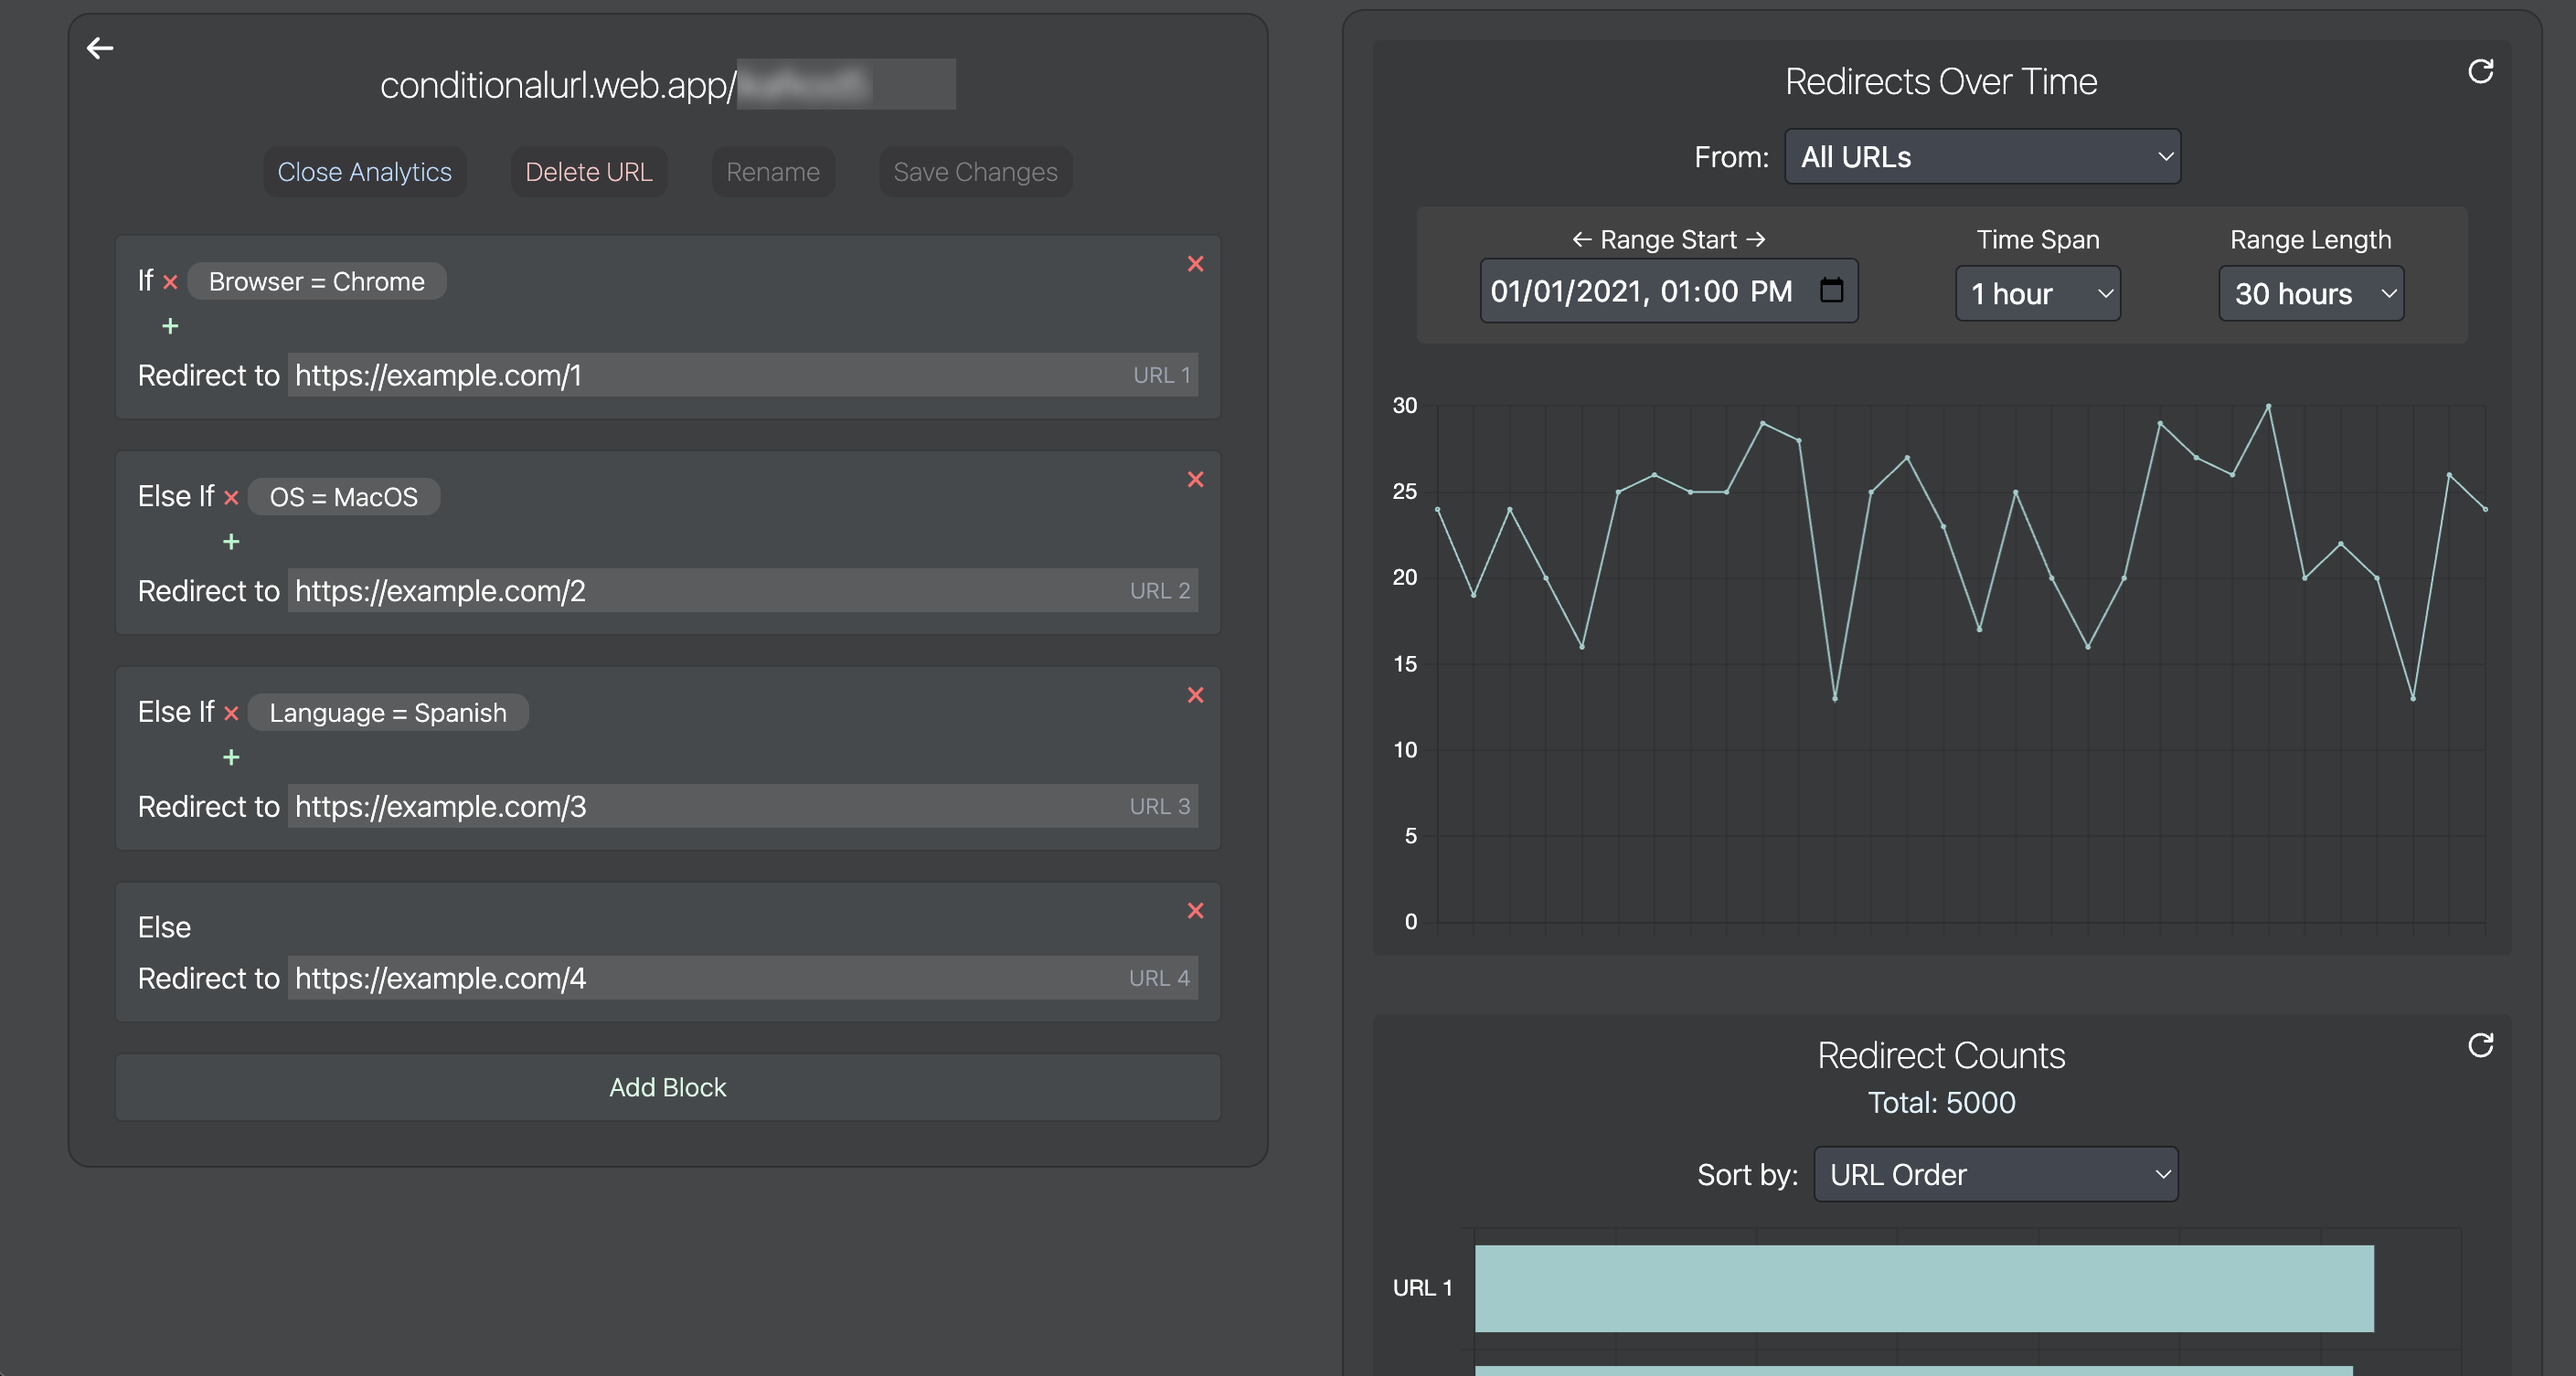
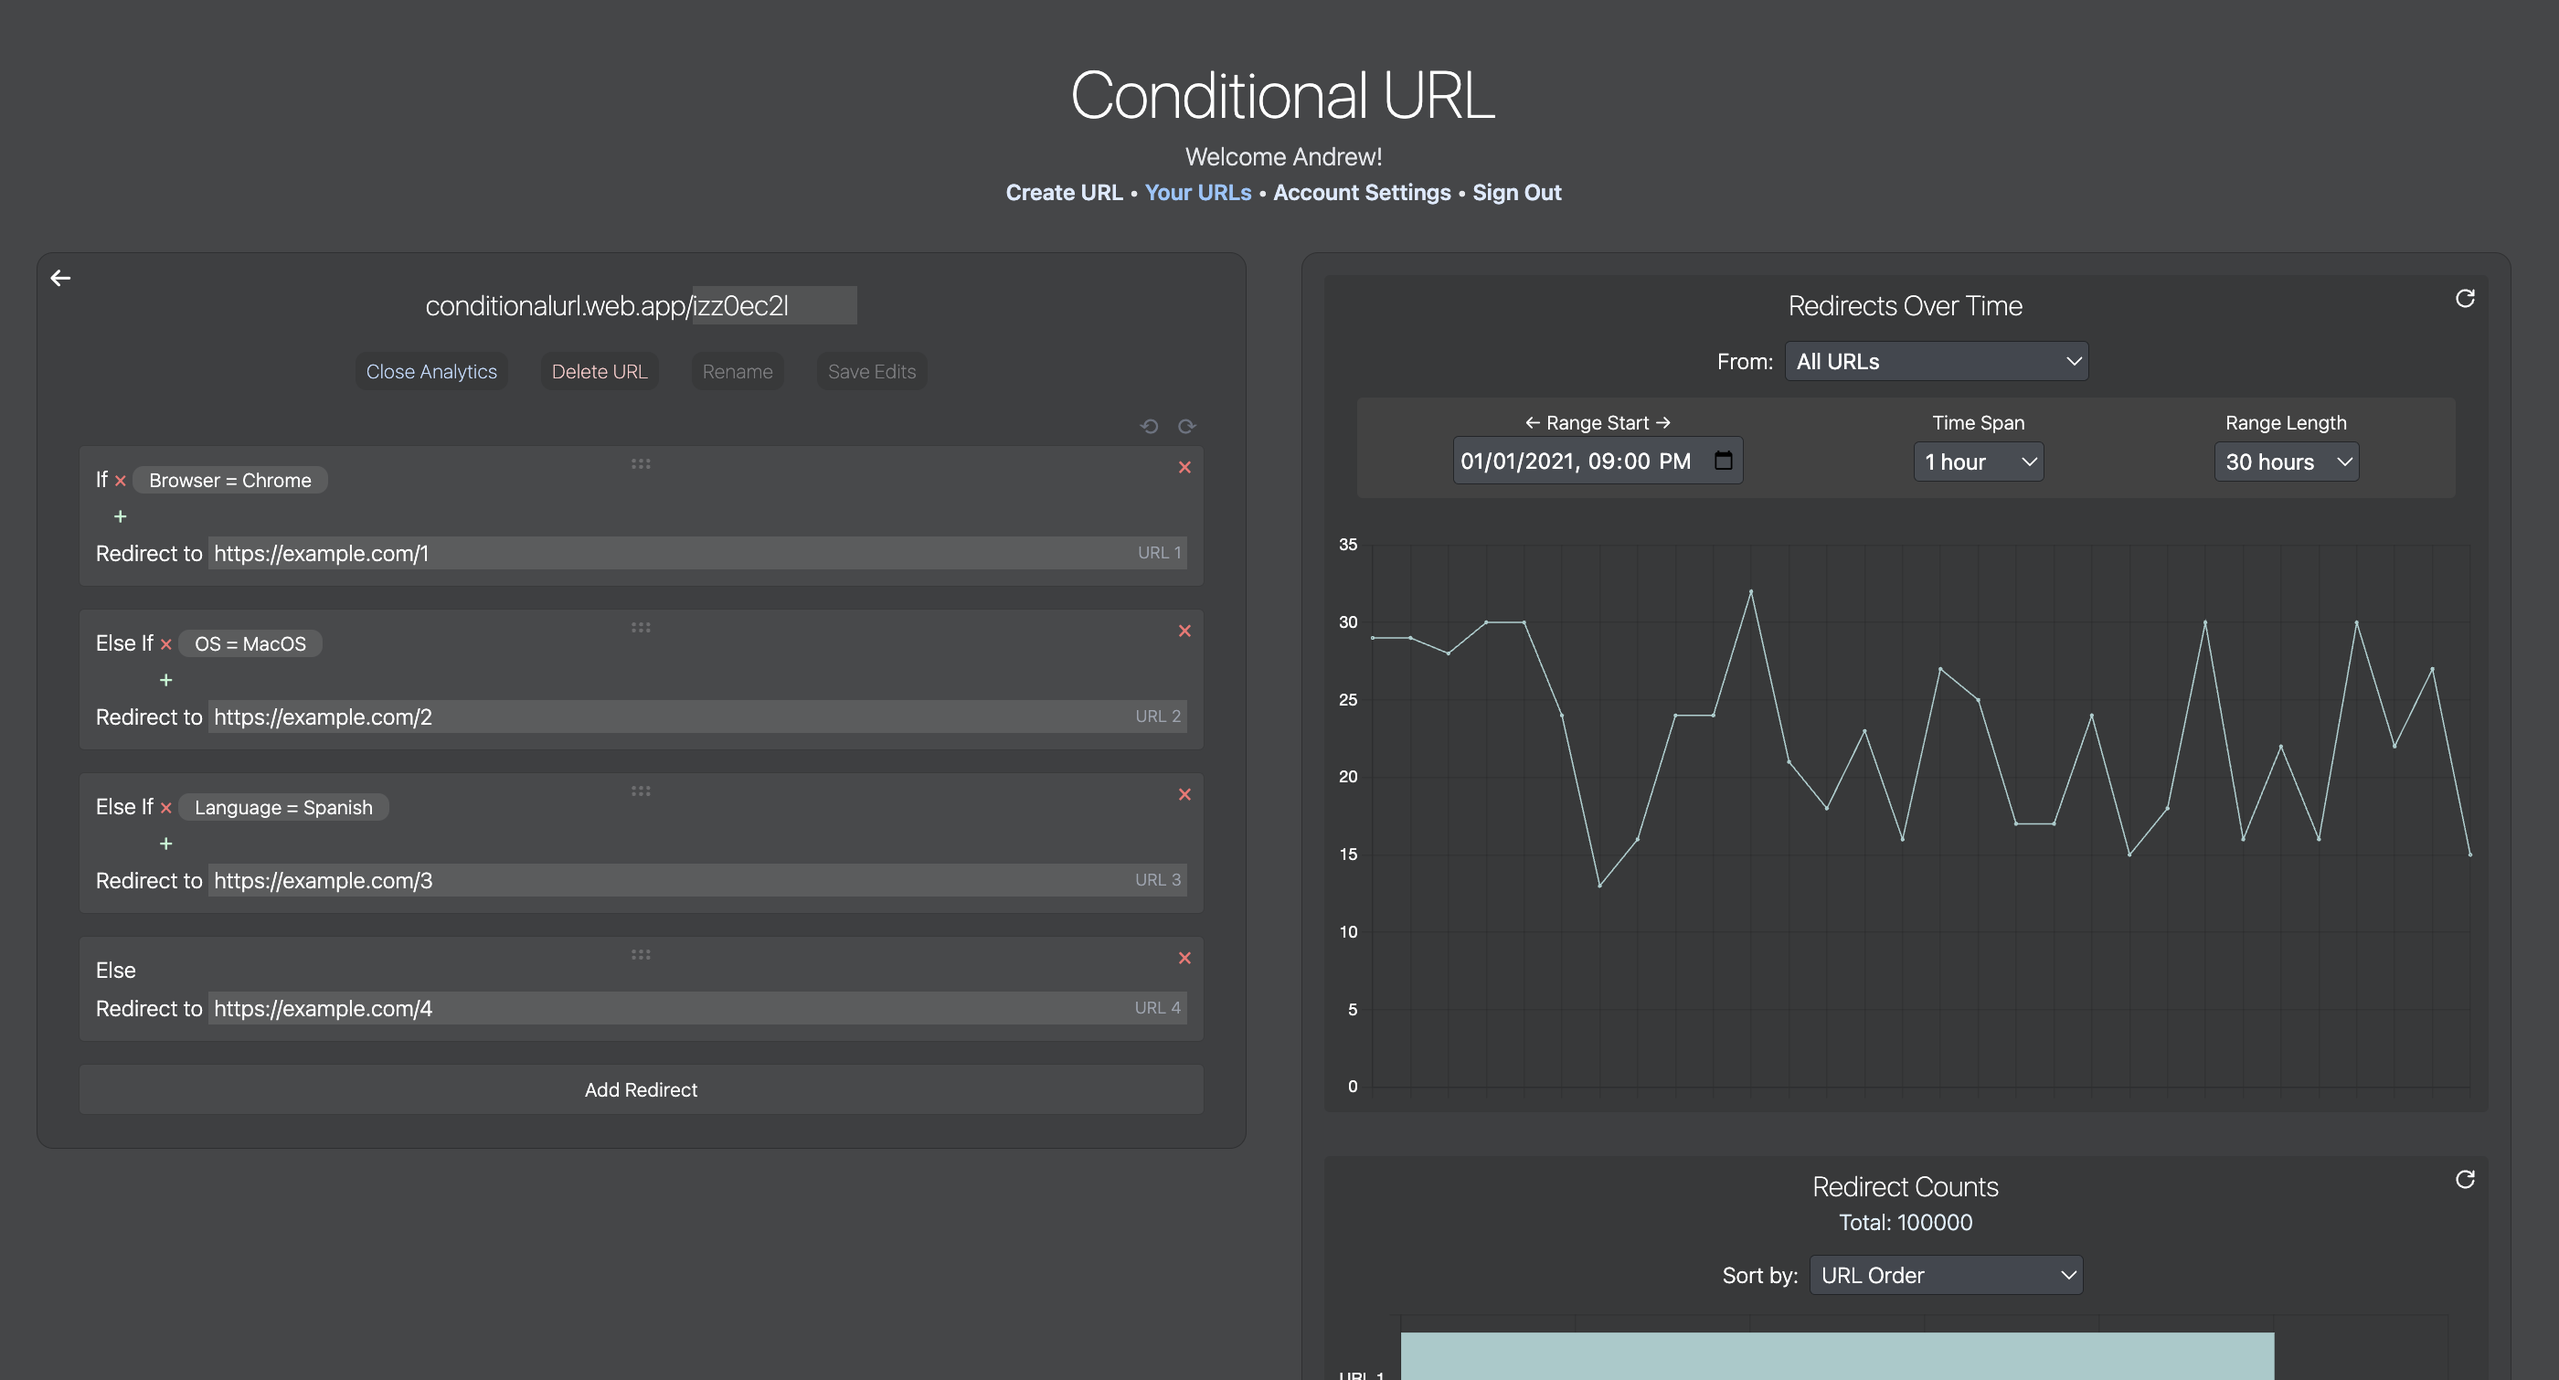
Update images

diff --git a/frontend/src/components/ConditionalsEditor/ConditionalBlock.vue b/frontend/src/components/ConditionalsEditor/ConditionalBlock.vue
@@ -55,12 +55,12 @@ const emit = defineEmits<{
 </script>
 
 <template>
-    <div class = "bg-white/5 hover:bg-black/5 border border-black/20 mb-4 mx-2 p-3 pt-6 sm:pt-3 relative rounded select-none text-sm md:text-base">
+    <div class = "bg-white/5 hover:bg-black/5 border border-black/20 mb-4 mx-2 p-3 relative rounded select-none text-sm md:text-base">
         <button tabindex="-1" v-if="!onlyOne" @click = "$emit('delete', props.i)" class = "absolute top-0 right-2 text-lg text-red-400 hover:text-red-500">
             × 
         </button>
 
-        <svg v-if="!onlyOne" xmlns="http://www.w3.org/2000/svg" class="handle cursor-grab z-50 absolute top-1 mx-auto left-0 right-0 text-white/20 hover:text-white/60" width="18" height="18" viewBox="0 0 24 24" stroke-width="2" stroke="currentColor" fill="none" stroke-linecap="round" stroke-linejoin="round">
+        <svg v-if="!onlyOne" xmlns="http://www.w3.org/2000/svg" class="handle cursor-grab z-40 absolute top-1 mx-auto left-0 right-0 text-white/20 hover:text-white/60" width="18" height="18" viewBox="0 0 24 24" stroke-width="2" stroke="currentColor" fill="none" stroke-linecap="round" stroke-linejoin="round">
             <path stroke="none" d="M0 0h24v24H0z" fill="none"></path> <path d="M5 9m-1 0a1 1 0 1 0 2 0a1 1 0 1 0 -2 0"></path> <path d="M5 15m-1 0a1 1 0 1 0 2 0a1 1 0 1 0 -2 0"></path> <path d="M12 9m-1 0a1 1 0 1 0 2 0a1 1 0 1 0 -2 0"></path> <path d="M12 15m-1 0a1 1 0 1 0 2 0a1 1 0 1 0 -2 0"></path> <path d="M19 9m-1 0a1 1 0 1 0 2 0a1 1 0 1 0 -2 0"></path> <path d="M19 15m-1 0a1 1 0 1 0 2 0a1 1 0 1 0 -2 0"></path>
         </svg>
 
@@ -100,8 +100,8 @@ const emit = defineEmits<{
             <div v-else-if="props.conditions.length > 0" class="text-white/25 italic"> Unused Conditions...</div>
         </div>
 
-        <div class="mt-1 relative flex items-center">
-            <p class = "my-auto mr-1 font-light text-white text-xs sm:text-sm md:text-base"> Redirect to</p>
+        <div class="mt-1 relative flex items-center text-xs sm:text-sm md:text-base">
+            <p class = "my-auto mr-1 font-light text-white"> Redirect to</p>
             <input 
                 :value="props.url" 
                 @input="handleUpdateURL" 

diff --git a/frontend/src/components/Account/analytics/DataGraph.vue b/frontend/src/components/Account/analytics/DataGraph.vue
@@ -222,9 +222,9 @@ const options = {
             ...
         </div>
 
-        <div class="bg-[#424242] rounded mx-4 mt-2 mb-6 p-2 pt-0 sm:flex sm:flex-wrap sm:justify-around">
-            <div class="mt-2">
-                <label  class="block text-sm">
+        <div class="bg-[#424242] rounded mx-4 mt-2 mb-6 px-2 py-4 sm:flex sm:flex-wrap sm:justify-around">
+            <div>
+                <label class="block text-sm">
                     <span @click="moveStartBySpan(-1)" class = "cursor-pointer">←</span>
                     Range Start
                     <span @click="moveStartBySpan(1)" class = "cursor-pointer">→</span>
@@ -235,7 +235,7 @@ const options = {
                     />
             </div>
 
-            <div class="mt-2">
+            <div>
                 <label class="block text-sm">Time Span</label>
                 <select v-model="span" id="span" class = "border border-black/50 p-1 m-1 rounded font-normal bg-gray-600/50">
                     <option class="bg-gray-600" :value = "Span.Minute"> 1 minute </option>
@@ -244,7 +244,7 @@ const options = {
                 </select>
             </div>
 
-            <div class="mt-2">
+            <div>
                 <label  class="block text-sm">Range Length</label>
                 <select v-model="limit" id="limit" class = "border border-black/50 p-1 m-1 rounded font-normal bg-gray-600/50">
                     <option class="bg-gray-600" v-for="n in 10" :value = "n * 10"> {{`${n * 10} ${span}s`}} </option>

diff --git a/frontend/src/components/Account/AccountPopup.vue b/frontend/src/components/Account/AccountPopup.vue
@@ -137,7 +137,7 @@ const emit = defineEmits<{
 </script>
 
 <template>
-    <div class = "bg-black/80 border border-white/10 shadow-md rounded-lg sm:rounded-tr-none z-20 pt-6 p-10
+    <div class = "bg-black/80 border border-white/10 shadow-md rounded-lg sm:rounded-tr-none z-50 pt-6 p-10
                         sm:absolute sm:left-auto sm:right-2 sm:top-6 sm:w-fit sm:h-fit
                         fixed w-[97.5%] left-[1.25%] right-[1.25%] top-[22vh] h-[50vh]">
 
